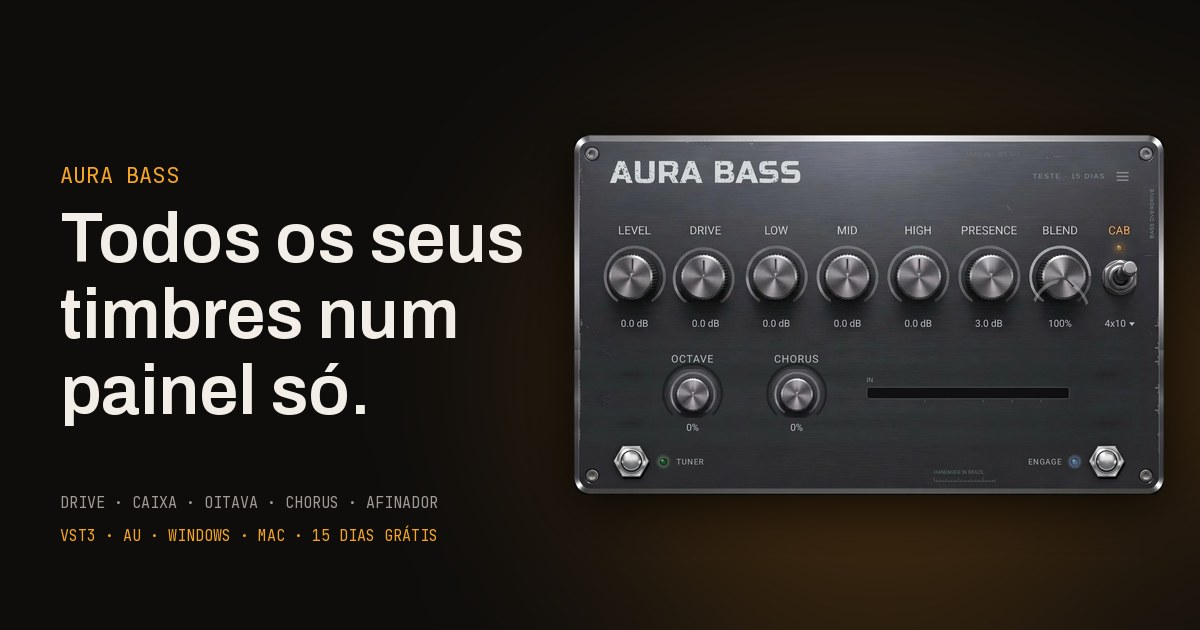
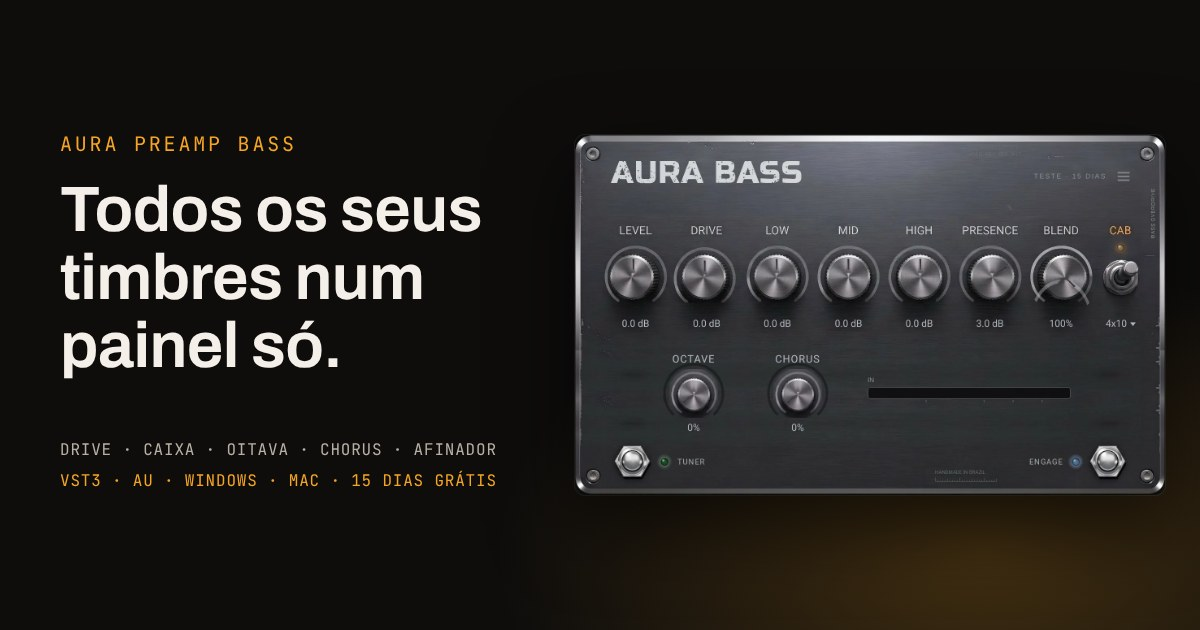
Add files via upload

diff --git a/index.html b/index.html
@@ -4,16 +4,16 @@
 <meta charset="utf-8">
 <meta name="viewport" content="width=device-width, initial-scale=1">
 <script>document.documentElement.className = "js";</script>
-<title>Ledix Plugins · Synth Bass e Bass para baixistas</title>
-<meta name="description" content="AURA Synth Bass (sintetizador) e AURA Bass (pré com drive, caixa, oitava, chorus e afinador), criados por Thiago R. Galvão. App e plugins VST3 e AU para Windows e Mac. Teste grátis por 15 dias.">
+<title>Ledix Plugins · Synth Bass e Preamp Bass para baixistas</title>
+<meta name="description" content="AURA Synth Bass (sintetizador) e AURA Preamp Bass (pré com drive, caixa, oitava, chorus e afinador), criados por Thiago R. Galvão. App e plugins VST3 e AU para Windows e Mac. Teste grátis por 15 dias.">
 <link rel="canonical" href="https://ledixplugins.com.br/">
 <meta property="og:type" content="website">
 <meta property="og:site_name" content="Ledix Plugins">
 <meta property="og:locale" content="pt_BR">
 <meta property="og:url" content="https://ledixplugins.com.br/">
 <meta property="og:title" content="Ledix Plugins · som feito para quem toca">
-<meta property="og:description" content="AURA Synth Bass e AURA Bass para Windows e Mac. Teste grátis por 15 dias.">
-<meta property="og:image" content="https://ledixplugins.com.br/assets/ledix-card.jpg?v=3"><meta property="og:image:width" content="1200"><meta property="og:image:height" content="630"><meta property="og:image:alt" content="Ledix Plugins: AURA Synth Bass e AURA Bass">
+<meta property="og:description" content="AURA Synth Bass e AURA Preamp Bass para Windows e Mac. Teste grátis por 15 dias.">
+<meta property="og:image" content="https://ledixplugins.com.br/assets/ledix-card.jpg?v=3"><meta property="og:image:width" content="1200"><meta property="og:image:height" content="630"><meta property="og:image:alt" content="Ledix Plugins: AURA Synth Bass e AURA Preamp Bass">
 <meta name="twitter:card" content="summary_large_image">
 <meta name="theme-color" content="#0E0D0C">
 <link rel="icon" href="assets/ledix-icon.svg" type="image/svg+xml"><link rel="apple-touch-icon" href="assets/apple-touch-icon.png">
@@ -29,7 +29,7 @@
   <ul class="nav-links title-4">
     <li><a href="#plugins">Plugins</a></li>
     <li><a href="/aurasynthbass/">AURA Synth Bass</a></li>
-    <li><a href="/aurabass/">AURA Bass</a></li>
+    <li><a href="/aurabass/">AURA Preamp Bass</a></li>
   </ul>
   <a class="btn btn-primary button-sm" href="/aurasynthbass/#baixar">Baixar grátis</a>
 </nav>
@@ -74,7 +74,7 @@
       <article class="feature rv">
         <div class="feature-text">
           <p class="lcd caption-4 kicker">Pré de baixo</p>
-          <h3 class="heading-3">AURA Bass</h3>
+          <h3 class="heading-3">AURA Preamp Bass</h3>
           <p class="body-3 muted">Todos os seus timbres num painel só. Oito timbres de fábrica, drive com blend, caixa, oitava, chorus e afinador embutido.</p>
           <ul class="chips lcd caption-4" aria-label="Formatos e sistemas">
             <li>App</li><li>VST3</li><li>AU</li><li>Windows</li><li>Mac</li>
@@ -109,7 +109,7 @@
   <div class="wrap footer-inner caption-4 muted">
     <a href="/">Todos os plugins</a>
     <a href="/aurasynthbass/">AURA Synth Bass</a>
-    <a href="/aurabass/">AURA Bass</a>
+    <a href="/aurabass/">AURA Preamp Bass</a>
     <p class="footer-legal">© 2026 Ledix Plugins, de Thiago R. Galvão. Todos os direitos reservados.<br>Nomes de outros fabricantes citados pertencem a seus donos; não há afiliação.</p>
   </div>
 </footer>

diff --git a/aurabass/index.html b/aurabass/index.html
@@ -11,7 +11,7 @@
 <meta property="og:title" content="AURA Preamp Bass · todos os seus timbres num painel só">
 <meta property="og:description" content="Limpo, drive, oitava, chorus, caixa e afinador no mesmo lugar. Teste grátis por 15 dias.">
 <meta property="og:url" content="https://ledixplugins.com.br/aurabass/">
-<meta property="og:image" content="https://ledixplugins.com.br/assets/aurabass-card.jpg?v=2">
+<meta property="og:image" content="https://ledixplugins.com.br/assets/aurabass-card.jpg?v=3">
 <meta property="og:locale" content="pt_BR">
 <meta name="twitter:card" content="summary_large_image">
 <meta name="theme-color" content="#0E0D0C">
